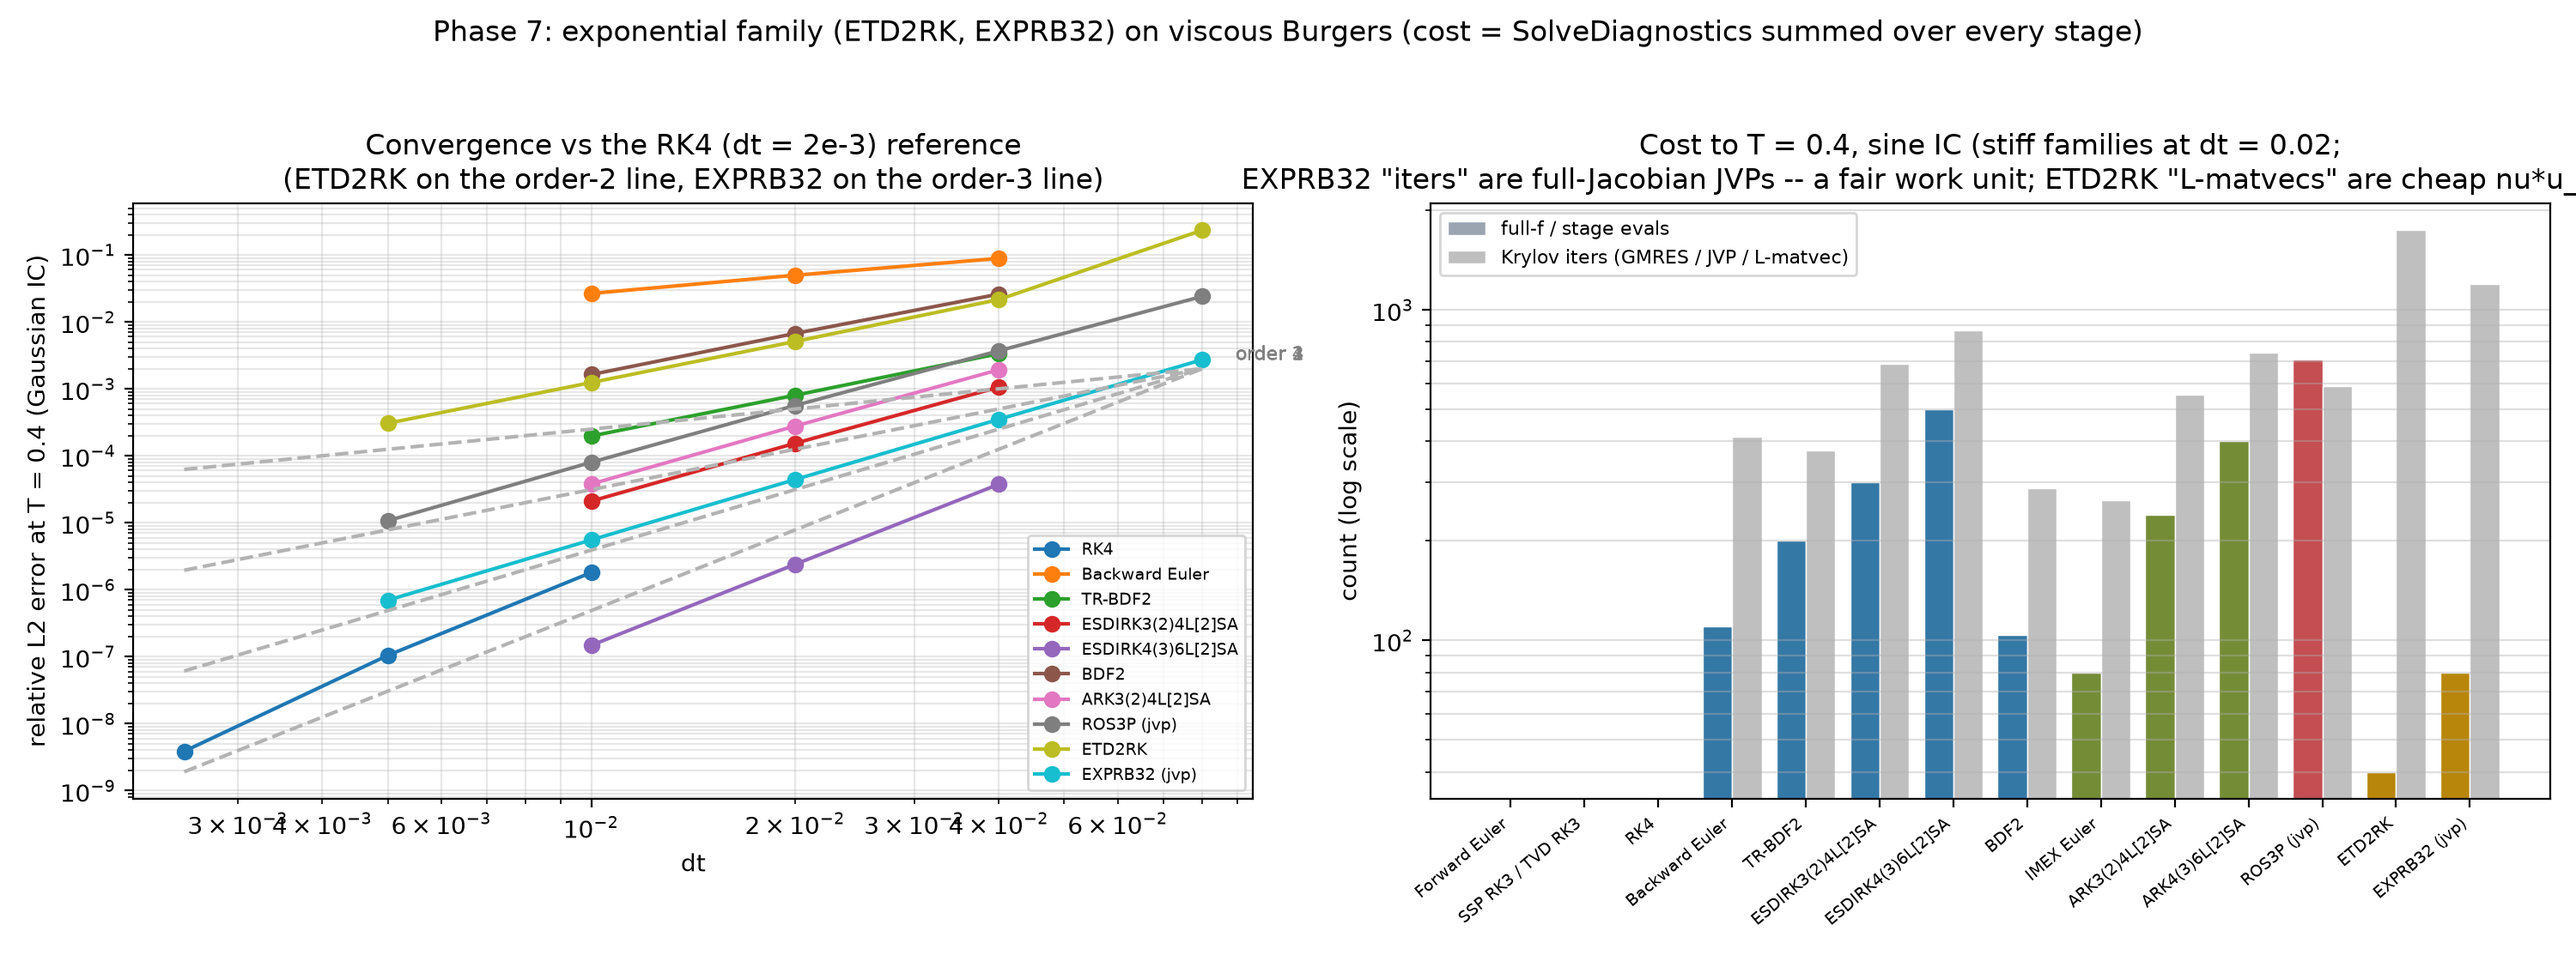
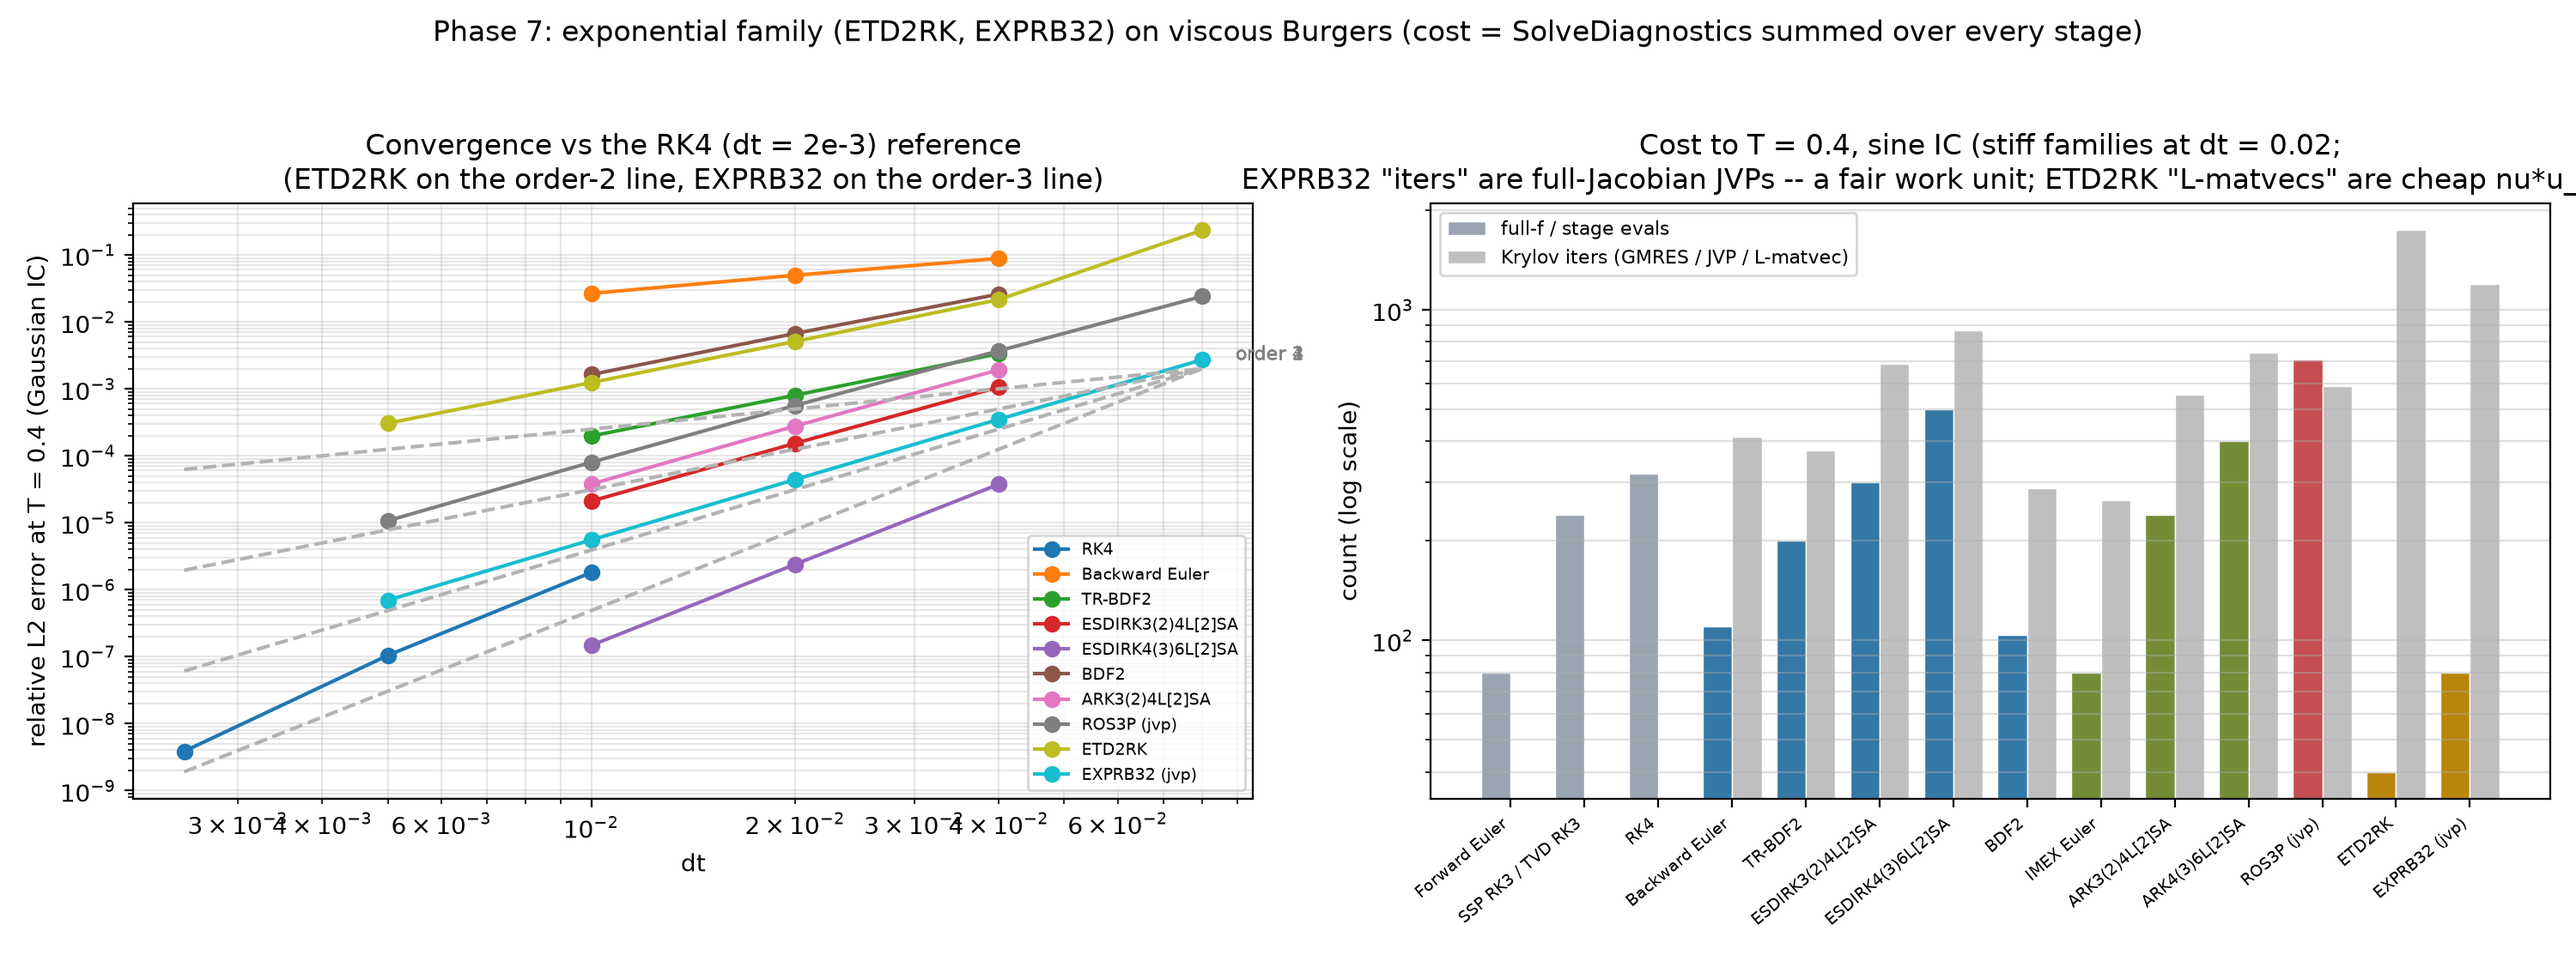
Fix benchmark Panel 2 cost accounting (explicit stage counts, ROS3P no-double-count total)

Changed region(s): [[0.558, 0.5, 0.651, 0.8438]]

diff --git a/scripts/exponential_benchmark.py b/scripts/exponential_benchmark.py
@@ -19,13 +19,17 @@ order-3 bars ROS3P (706), ARK3 (793) and ESDIRK3 (988 work-units at ``dt =
   1. **Convergence** (Gaussian IC): endpoint relative ``L2`` error at ``T = 0.4``
      against the fine-``dt`` RK4 reference, on ``dt`` that divide ``T`` exactly.
      ETD2RK sits on the order-2 line, EXPRB32 on the order-3 line.
-  2. **Cost** (sine IC, ``dt = 0.02``, 20 steps): total ``rhs_evaluations`` +
-     ``gmres_iterations`` (the Phase 1 ``SolveDiagnostics``, summed over every
-     stage). For ETD2RK the ``gmres_iterations`` field carries the total
-     ``L``-matvec (Krylov) count -- a cheap ``nu·u_xx`` stencil, so the metric
+  2. **Cost** (sine IC, ``dt = 0.02``, 20 steps): the Phase 1
+     ``SolveDiagnostics`` summed over every stage -- ``rhs_evaluations`` +
+     ``gmres_iterations`` -- with three accounting notes. The explicit family
+     emits no diagnostics, so its full-f count is (stages per step) x (steps).
+     For ROS3P (W = jvp/fd) the GMRES matvecs are full Jacobian sweeps already
+     inside ``rhs_evaluations``, so total = ``rhs_evaluations`` (no
+     double-count) -- the notebook's S11 convention, shared with Panel 3. For
+     ETD2RK the Krylov count is cheap ``nu·u_xx`` L-matvecs, so its total
      *overstates* its FLOP cost; for EXPRB32 the Krylov matvecs are **full
-     Jacobian JVPs**, the same cost class as a full ``f`` evaluation, so the
-     metric is fair for it.
+     Jacobian JVPs**, the same cost class as a full ``f`` evaluation, so its
+     total is fair.
   3. **Order-3 cost gate at fixed error** (sine IC): each order-3 method runs the
      ``dt`` ladder and the table reports its total work at the *largest* ``dt``
      that reaches the target error -- the "fixed error" half of the gate, which
@@ -160,16 +164,34 @@ def main():
         # work-unit total is a fair FLOP proxy (unlike ETD2RK's cheap L-matvecs).
         ('exponential', 'EXPRB32 (jvp)', 'EXPRB32', DT_STIFF, problem.rhs, False, {}),
     ]
-    print(f"\nCost, sine IC, T = {T} (RHS evals + L-matvec Krylov iters, summed):")
+    # The explicit family emits no solver diagnostics (no solve to observe);
+    # count its full-f evaluations as (stages per step) x (steps) -- the
+    # Butcher-built schemes expose their tableau, TVD RK3 is hand-rolled with
+    # 3 stages -- the same numbers the notebook's S11 table quotes.
+    def _explicit_stages(name):
+        if name == 'TVD RK3':
+            return 3
+        return len(getIntegrator(name).function.butcherTableau.a)
+
+    # ROS3P (W = jvp/fd): every GMRES matvec is a full Jacobian sweep already
+    # counted in rhs_evaluations (the notebook's S11 convention, as in Panel 3
+    # below) -- adding g would double-count them.
+    def _in_rhs(name, kw):
+        return name == 'ROS3P' and kw.get('w', 'jvp') in ('jvp', 'fd')
+
+    print(f"\nCost, sine IC, T = {T} (RHS evals + Krylov iters, summed):")
     print(f"  {'family':13s} {'scheme':20s} {'dt':>6s} {'steps':>5s} "
-          f"{'RHS evals':>9s} {'L-matvecs':>11s} {'total':>7s} {'rel L2 err':>11s}")
+          f"{'RHS evals':>9s} {'Krylov iters':>12s} {'total':>7s} {'rel L2 err':>11s}")
     cost_data = []
     for family, label, name, dt, f, hist, kw in cost:
         times, U, r, g = run_cost(name, dt, T, f, make_sine, history=hist, **kw)
+        if family == 'explicit':
+            r = _explicit_stages(name) * (len(times) - 1)
         err = float(np.linalg.norm(U[-1] - u_sref[-1]) / np.linalg.norm(u_sref[-1]))
         cost_data.append((family, label, dt, len(times) - 1, r, g, err))
+        total = r if _in_rhs(name, kw) else r + g
         print(f"  {family:13s} {label:20s} {dt:6g} {len(times) - 1:5d} "
-              f"{r:9d} {g:11d} {r + g:7d} {err:11.3e}")
+              f"{r:9d} {g:12d} {total:7d} {err:11.3e}")
 
     # --------------------------------------------------------------------- #
     # Panel 3: the order-3 cost gate at fixed error (sine IC)                #
